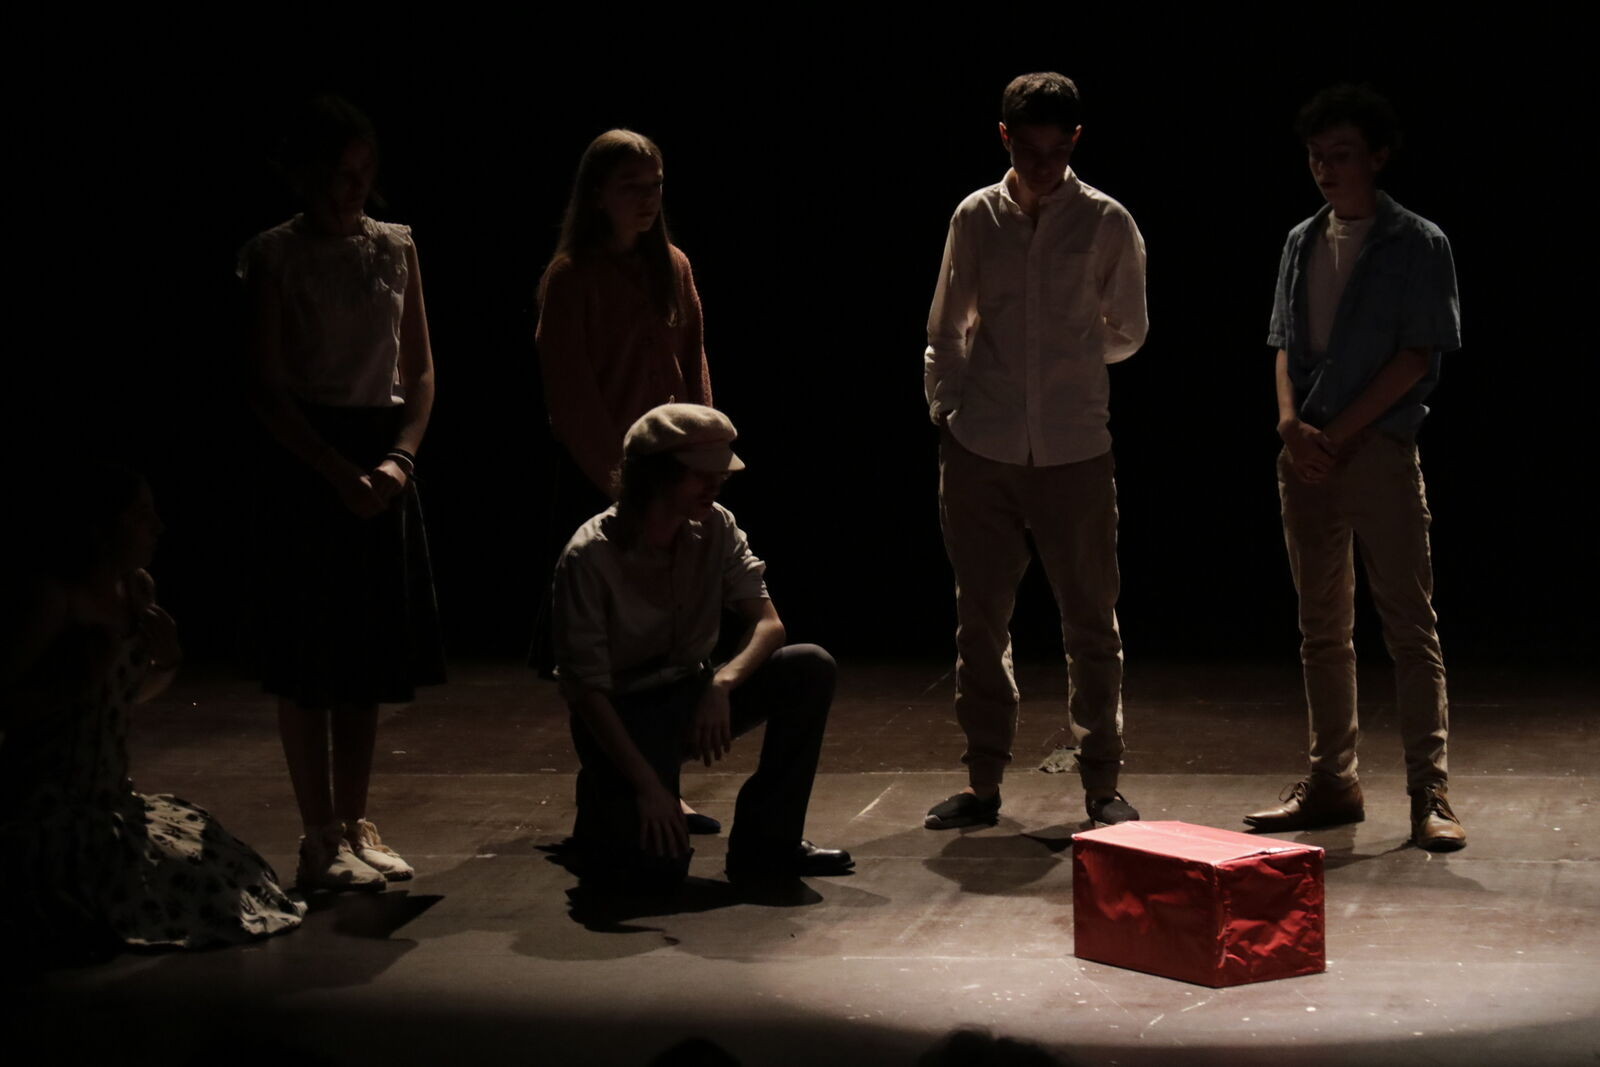
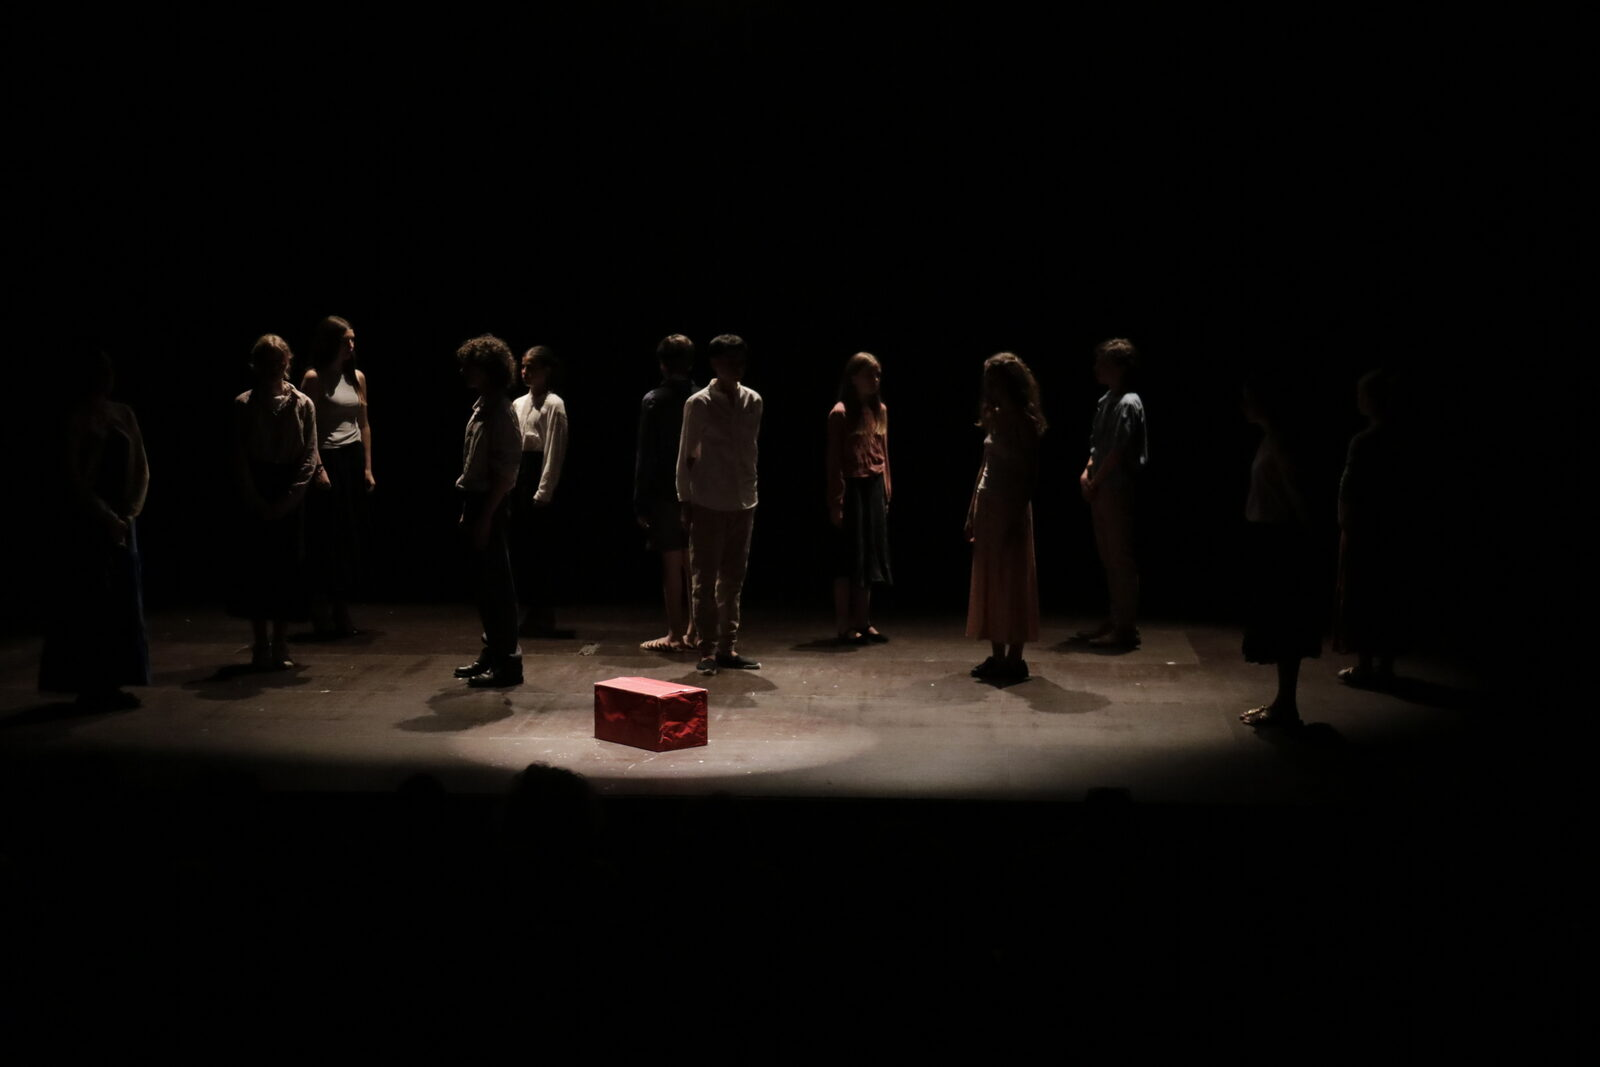
Unifica la capçalera de les pàgines interiors i renova les fotos

diff --git a/trajectoria.html b/trajectoria.html
@@ -101,13 +101,12 @@
     .submenu li { height: auto; display: block; }
     .submenu li a { display: block; padding: 0.55rem 1.2rem; }
 
-    /* CAPÇALERA */
+    /* CAPÇALERA — mateix patró que direccio.html i formacio.html:
+       títol sobre blanc i, a sota, la franja de foto. */
     header.pagina {
-      padding: 12rem 2rem 6rem;
+      padding: 10rem 2rem 4rem;
       text-align: center;
-      background: linear-gradient(rgba(0,0,0,0.62), rgba(0,0,0,0.62)),
-                  url('roger_casadella_narrador_de_contes.jpg') center 30% / cover no-repeat;
-      color: white;
+      background: var(--fons);
     }
 
     .section-label {
@@ -118,8 +117,6 @@
       color: var(--gris-suau);
       margin-bottom: 0.5rem;
     }
-
-    header.pagina .section-label { color: rgba(255,255,255,0.5); }
 
     header.pagina h1 {
       font-family: 'Playfair Display', serif;
@@ -133,13 +130,35 @@
     .capçalera-intro {
       max-width: 56ch;
       margin: 0 auto;
-      color: rgba(255,255,255,0.78);
+      color: var(--gris-text);
       font-size: 1.02rem;
     }
 
     .linia-colors {
       height: 3px;
       background: linear-gradient(to right, var(--vermell) 20%, var(--cian) 40%, var(--lila) 60%, var(--taronja) 80%, var(--verd) 100%);
+    }
+
+    /* BANNER FOTOGRÀFIC — igual que a direccio.html i formacio.html */
+    .banner-foto {
+      height: 58vh;
+      min-height: 340px;
+      background: linear-gradient(rgba(0,0,0,0.15), rgba(0,0,0,0.15)),
+                  url('trajectoria_hero.jpg') center center / cover no-repeat;
+      position: relative;
+    }
+    .banner-peu {
+      position: absolute;
+      bottom: 0; left: 0; right: 0;
+      padding: 1.2rem 2rem;
+      background: linear-gradient(transparent, rgba(0,0,0,0.6));
+      color: rgba(255,255,255,0.85);
+      font-size: 0.75rem;
+      letter-spacing: 0.06em;
+      text-align: center;
+    }
+    @media (max-width: 700px) {
+      .banner-foto { height: 40vh; min-height: 240px; }
     }
 
     /* LÍNIA DE TEMPS */
@@ -311,6 +330,11 @@
   <p class="capçalera-intro">Més de vint-i-cinc anys de teatre en totes les seves formes: actor, director, educador i gestor cultural. Cada etapa ha deixat una eina a la maleta del narrador.</p>
 </header>
 <div class="linia-colors"></div>
+
+<!-- BANNER -->
+<div class="banner-foto">
+  <p class="banner-peu">«El lladre del nas vermell» — companyia Va de Nassoos</p>
+</div>
 
 <!-- LÍNIA DE TEMPS -->
 <div class="timeline">

diff --git a/direccio.html b/direccio.html
@@ -455,16 +455,16 @@
     <h2 class="section-titol">Sobre el terreny</h2>
     <div class="galeria-grid">
       <figure class="galeria-item">
-        <img src="direccio_placa.jpg" alt="Actors en un itinerari teatralitzat a la plaça, amb públic al voltant" loading="lazy">
-        <figcaption>Itinerari teatralitzat a la plaça · Cent anys del Celler</figcaption>
+        <img src="direccio_ambaixadors.jpg" alt="Campament reial nocturn al claustre del monestir, il·luminat de blau i ambre" loading="lazy">
+        <figcaption>Ambaixadors Reials · Claustre del Monestir de Sant Cugat</figcaption>
       </figure>
       <figure class="galeria-item">
-        <img src="direccio_peus.jpg" alt="Detall de peus amb espardenyes ballant sobre les llambordes" loading="lazy">
-        <figcaption>El ball, de prop · Cent anys del Celler</figcaption>
+        <img src="direccio_tren.jpg" alt="Figurants amb vestuari d'època i para-sols de puntes en una cercavila" loading="lazy">
+        <figcaption>Que arriba el tren! · Cercavila del centenari, 2017</figcaption>
       </figure>
       <figure class="galeria-item">
-        <img src="direccio_velles.jpg" alt="Cercavila del Ball de Velles amb mocadors blancs enlaire" loading="lazy">
-        <figcaption>Ball de Velles · Carnestoltes de Sant Cugat</figcaption>
+        <img src="direccio_sarsuela.jpg" alt="Escena de sarsuela: un home a terra davant del cor" loading="lazy">
+        <figcaption>La tavernera del port · Sarsuela &nbsp;·&nbsp; Foto: Amanda Bernal</figcaption>
       </figure>
     </div>
   </div>

diff --git a/formacio.html b/formacio.html
@@ -275,11 +275,9 @@
 
     /* BANNER FOTOGRÀFIC */
     .banner-foto {
-      height: 66vh;
-      min-height: 380px;
-      /* 'contain' sobre negre: el fons de la foto ja és negre, així que les
-         bandes laterals no es noten i no es talla cap cap. */
-      background: #000 url('formacio_hero.jpg') center center / contain no-repeat;
+      height: 58vh;
+      min-height: 340px;
+      background: #000 url('formacio_hero.jpg') center center / cover no-repeat;
       position: relative;
     }
     .banner-peu {
@@ -326,7 +324,7 @@
       nav { padding: 0 1.5rem; }
       .nav-links { display: none; }
       .exp { grid-template-columns: 90px 1fr; gap: 1rem; }
-      .banner-foto { height: 34vh; min-height: 200px; }
+      .banner-foto { height: 40vh; min-height: 240px; }
       .galeria-grid { grid-template-columns: 1fr; }
     }
   </style>
@@ -478,7 +476,7 @@
         <figcaption>El muntatge final, on tot el curs pren sentit</figcaption>
       </figure>
       <figure class="galeria-item">
-        <img src="formacio_assaig.jpg" alt="Assaig sobre l'escenari amb llum lateral" loading="lazy">
+        <img src="formacio_assaig.jpg" alt="Grup assegut a terra en cercle durant un assaig, escoltant" loading="lazy">
         <figcaption>Assaig: el gruix de la feina passa aquí</figcaption>
       </figure>
       <figure class="galeria-item">
